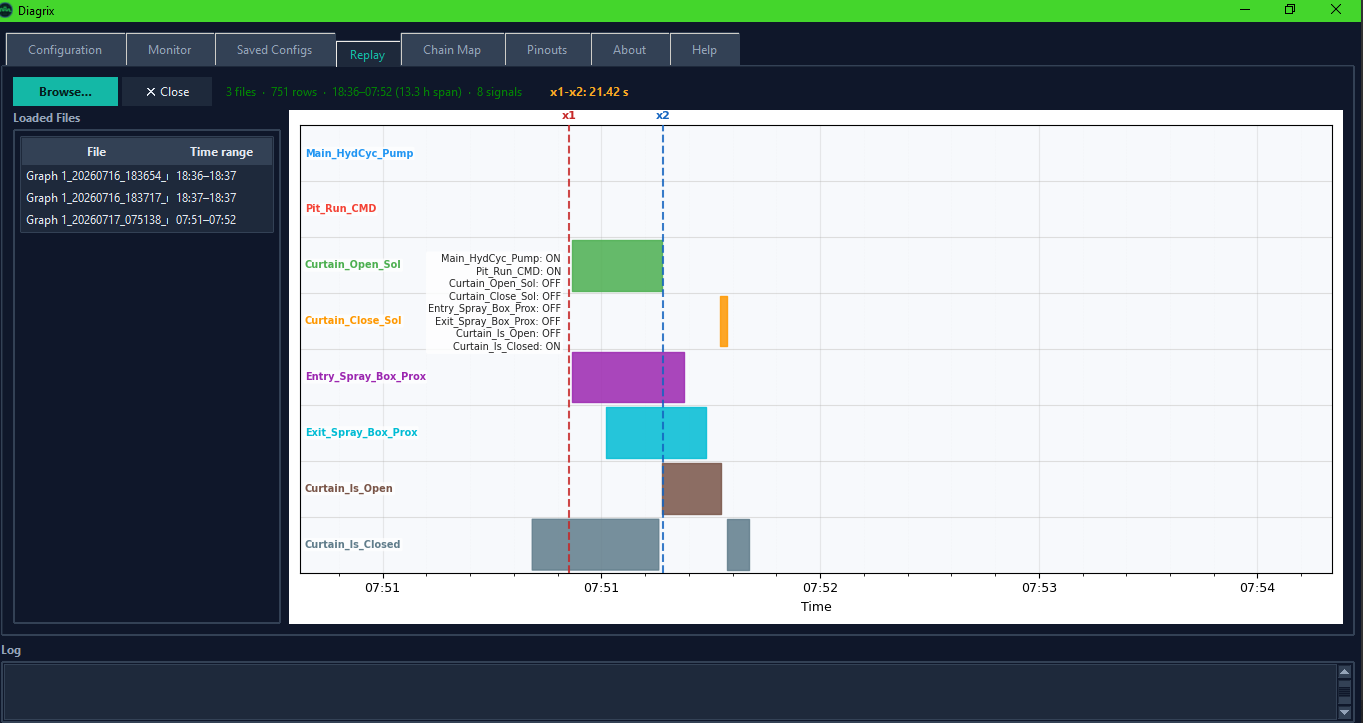
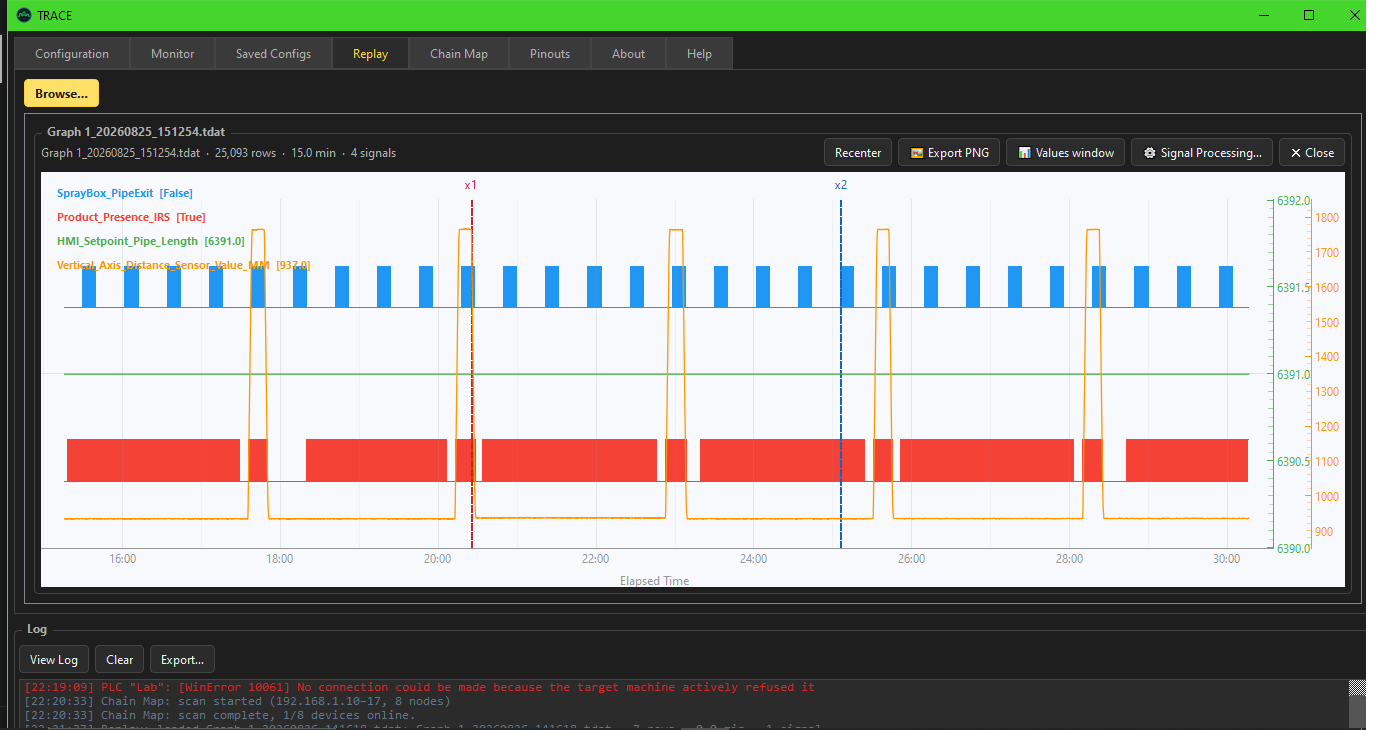
Refresh screenshots and branding, update docs for TRACE 1.7.0
The banner and all four module screenshots still showed the old Diagrix
Tkinter app; replaced them with current TRACE screenshots and a new
banner/social-preview image. Documented engineering units, conditional
recording triggers, and the per-graph sampling interval added in TRACE
1.7.0. Fixed leftover Diagrix wording and stale diagrix.us links in the
issue templates.

diff --git a/docs/monitor.md b/docs/monitor.md
@@ -15,9 +15,13 @@ maintenance log.
 - **Multiple synchronized graphs** — track several signals across independent graph windows at
   the same time
 - **Digital events** — on/off signal transitions rendered clearly on their own timeline
-- **Analog trends** — continuous numeric values plotted live
+- **Analog trends** — continuous numeric values plotted live, in real engineering units
+  (°C, bar, RPM, and other common units — not just the raw PLC value)
 - **Color customization** — assign colors to signals so a busy chart stays readable
-- **Recording** — capture a live session for later analysis
+- **Recording** — capture a live session for later analysis, with an optional trigger that
+  starts (and optionally stops) recording automatically when a signal crosses a condition
+- **Configurable sampling interval** — poll as fast as needed for quick transients, or slower
+  for long-running trends, set independently per graph
 - **CSV export** — pull recorded data into spreadsheets or other analysis tools
 - **Signal organization** — group and manage the signals being watched
 - **Independent graph windows** — separate machine sections or subsystems into their own views

diff --git a/CHANGELOG.md b/CHANGELOG.md
@@ -6,6 +6,17 @@ public documentation site, not the internal version history of the TRACE applica
 The format is based on [Keep a Changelog](https://keepachangelog.com/en/1.0.0/), and this project
 adheres to [Semantic Versioning](https://semver.org/spec/v2.0.0.html).
 
+## [1.1.0] - 2026-09-04
+
+### Changed
+
+- Replaced every screenshot and the banner/social-preview image, which still showed the old
+  Diagrix application, with current TRACE screenshots and branding.
+- Updated `docs/monitor.md` and the README feature list to cover engineering units per tag,
+  conditional recording triggers, and the configurable per-graph sampling interval added in
+  TRACE 1.7.0.
+- Fixed leftover "Diagrix" wording and stale contact links in the issue templates.
+
 ## [1.0.0] - 2026-07-26
 
 ### Added

diff --git a/README.md b/README.md
@@ -28,8 +28,10 @@ network and connector context needed to find a problem fast.
 
 ## Feature Highlights
 
-- **Real-time monitoring** of PLC signals with multiple synchronized graphs
+- **Real-time monitoring** of PLC signals with multiple synchronized graphs, in real
+  engineering units
 - **Digital and analog** signal visualization, side by side
+- **Conditional recording** that starts and stops automatically on a signal condition
 - **Session replay** with time cursors for post-incident analysis
 - **Network topology mapping** for industrial Ethernet daisy chains
 - **Connector pinout reference library** for common industrial standards

diff --git a/CONTRIBUTING.md b/CONTRIBUTING.md
@@ -14,7 +14,7 @@ code is maintained in a private repository.
 - **General questions** — open an Issue using the Question template, or email
   [info@siganor.com](mailto:info@siganor.com).
 
-## What we can't accept here
+## What I can't accept here
 
 - Source code, patches, or pull requests against the TRACE application itself
 - Requests for access to proprietary implementation details
